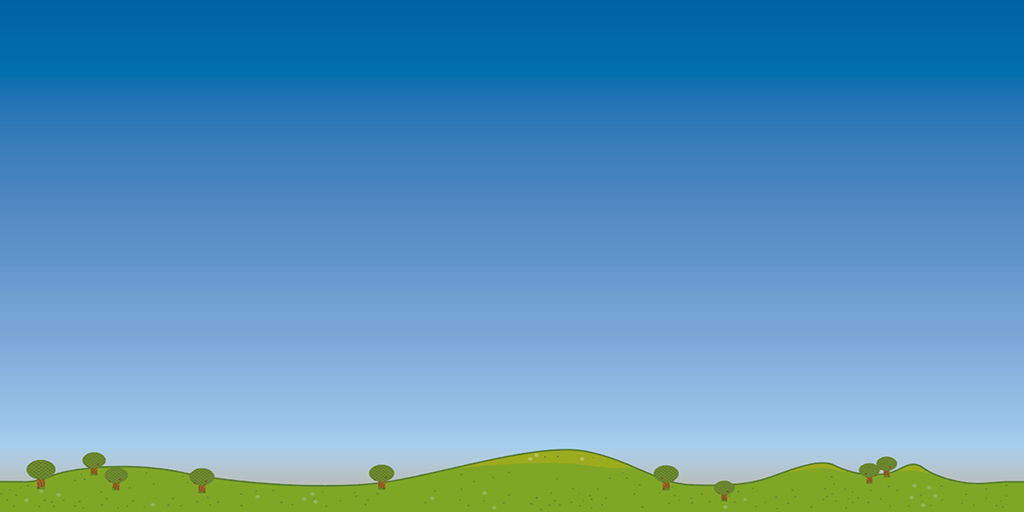
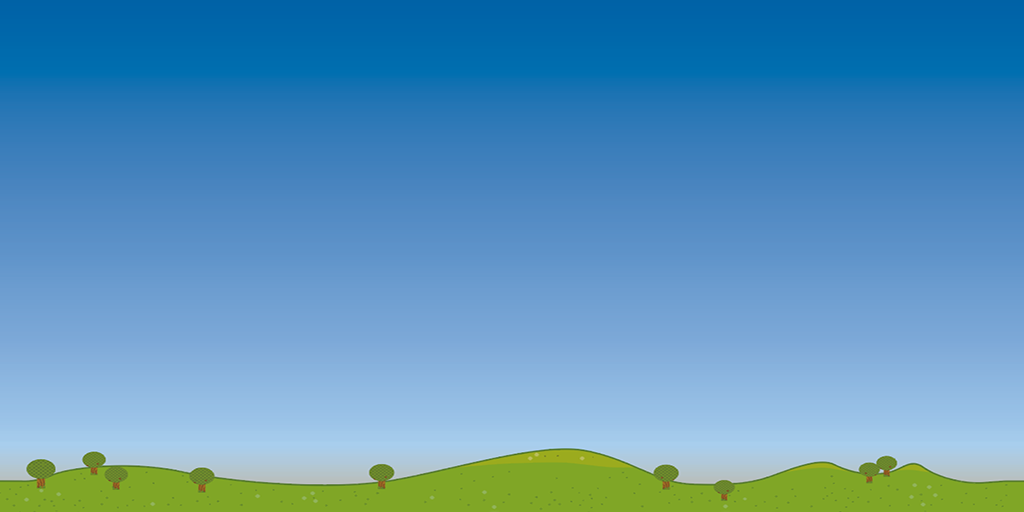
Some fixes

diff --git a/source/main.cpp b/source/main.cpp
@@ -2,6 +2,7 @@
 #include "rlgl.h"
 #include "Terrain.h"
 #include "Skybox.h"
+#include "CloudSystem.h"
 #include "TreeSystem.h"
 #include "FreeCamera.h"
 #include <cstdio>
@@ -16,6 +17,7 @@ int main()
 
     DisableCursor();
 
+    // Создание ландшафта
     Terrain terrain;
     terrain.generate(1);
 
@@ -26,10 +28,15 @@ int main()
     // Система деревьев
     TreeSystem treeSystem;
     treeSystem.init(&terrain);
-    treeSystem.placeTrees(1);  // Размещаем деревья для биома 1
+    treeSystem.placeTrees(1); // Размещаем деревья для биома 1
 
     // Строим меш ландшафта
     terrain.buildMesh();
+
+    // Система облаков
+    CloudSystem cloudSystem;
+    cloudSystem.init(&terrain);
+    cloudSystem.generate(1);
 
     // Камера стартует ВЫШЕ ландшафта и смотрит вниз
     FreeCamera camera;
@@ -51,18 +58,13 @@ int main()
             treeSystem.placeTrees(newBiome);
             skybox.load(newBiome);
             terrain.buildMesh();
+            cloudSystem.generate(newBiome);
         }
 
         if (IsKeyPressed(KEY_F1))
             showDebug = !showDebug;
 
-        if (IsKeyPressed(KEY_ESCAPE))
-        {
-            if (IsCursorHidden())
-                EnableCursor();
-            else
-                DisableCursor();
-        }
+        cloudSystem.update(deltaTime);
 
         camera.update(deltaTime);
 
@@ -101,6 +103,8 @@ int main()
 
         // 3. Отрисовка деревьев
         treeSystem.render();
+
+        cloudSystem.render();
 
         EndMode3D();
 

diff --git a/source/TreeSystem.cpp b/source/TreeSystem.cpp
@@ -100,23 +100,10 @@ void TreeSystem::loadTreeModels()
             for (int m = 0; m < treeModels[i].materialCount; m++)
             {
                 Material *mat = &treeModels[i].materials[m];
-
-                // Specular = 0 (DBA: set object specular ob,0)
-                mat->maps[MATERIAL_MAP_SPECULAR].color = BLACK;
-
-                // Unlit: убираем влияние освещения
-                // Устанавливаем diffuse в белый, emissive в белый
                 mat->maps[MATERIAL_MAP_DIFFUSE].color = WHITE;
-                mat->maps[MATERIAL_MAP_EMISSION].color = WHITE;
-
                 mat->maps[MATERIAL_MAP_DIFFUSE].texture = tex;
-
-                // No mipmapping (DBA: set object texture ob,0,0)
-                if (mat->maps[MATERIAL_MAP_DIFFUSE].texture.id != 0)
-                {
-                    SetTextureFilter(mat->maps[MATERIAL_MAP_DIFFUSE].texture,
-                                     TEXTURE_FILTER_POINT);
-                }
+                SetTextureFilter(mat->maps[MATERIAL_MAP_DIFFUSE].texture,
+                                 TEXTURE_FILTER_POINT);
             }
 
             TraceLog(LOG_INFO, "Tree texture %d loaded: %s", i, textureFiles[i]);
